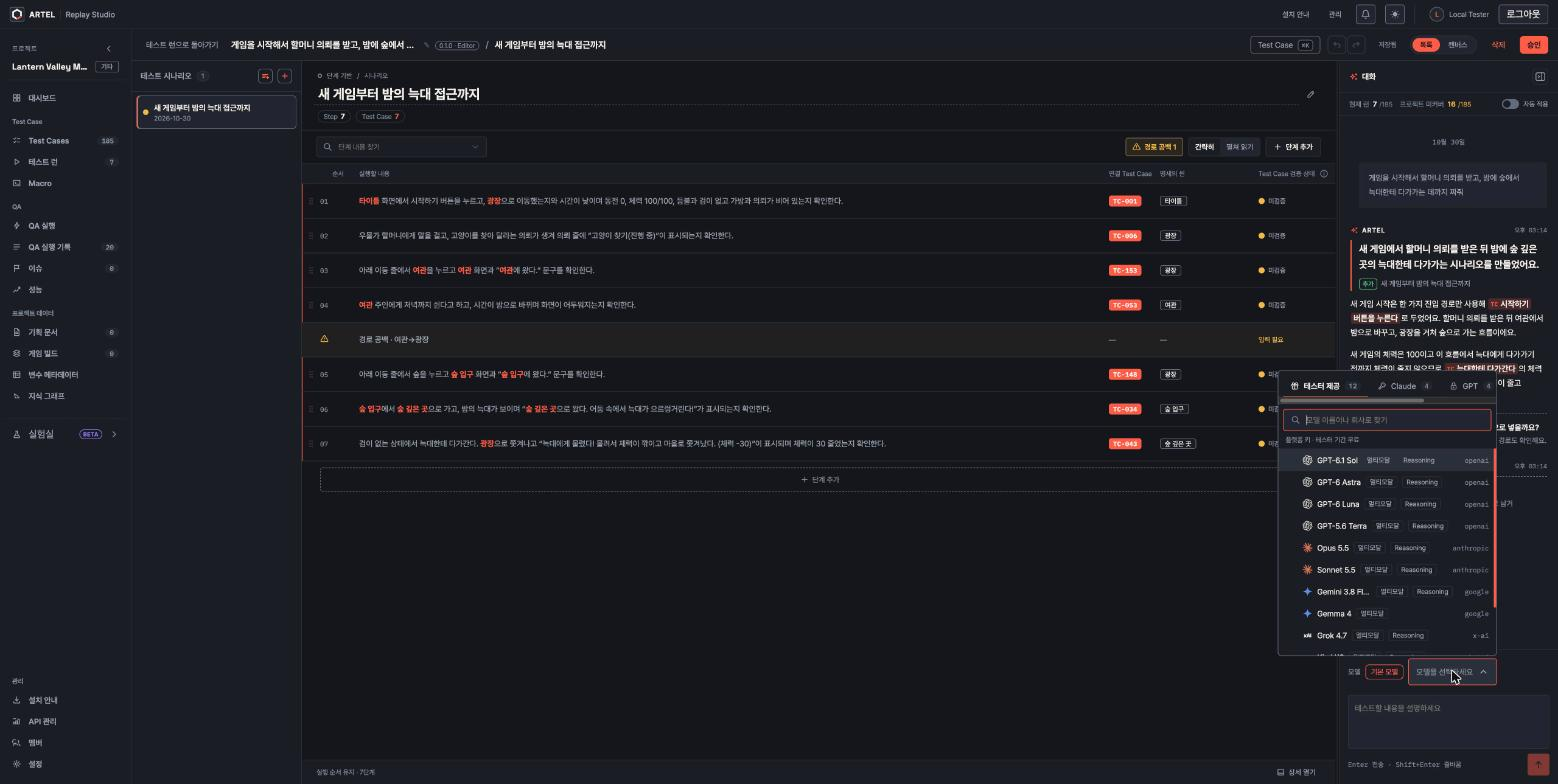
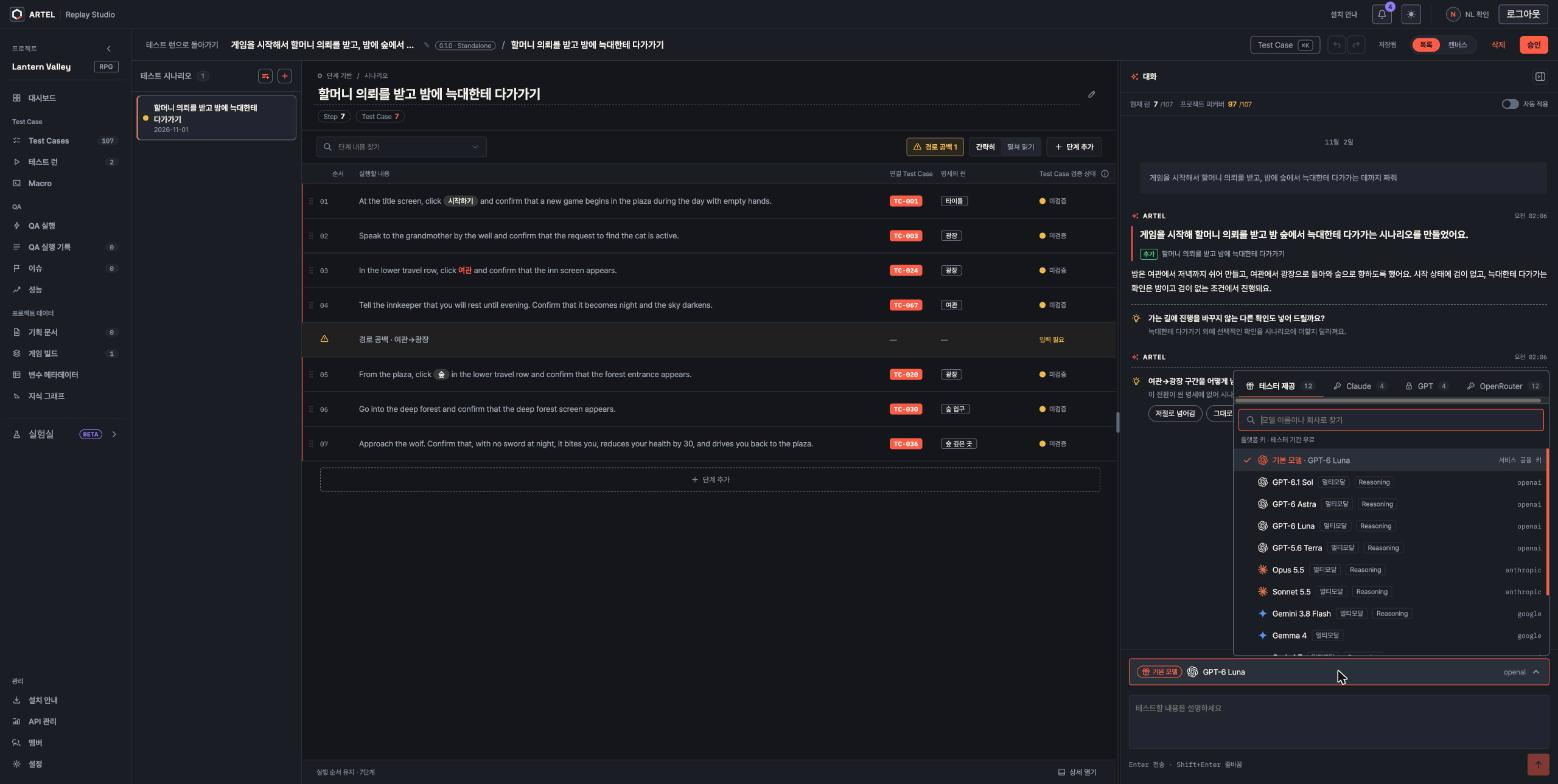
feat(home): 챗봇 모델 줄을 지금 모델을 보이는 트리거 하나로 합친다
모델 줄의 "기본 모델" 버튼과 picker 를 하나로 합친다(ARTEL-1428). 트리거가 지금 모델을 로고 · 이름 ·
키 배지로 보이고, 누르면 목록이 열린다. 기본 모델은 목록 맨 위의 행이고, 고르지 않았을 때 트리거에도
그 모델이 로고와 함께 보인다 — 이름은 orche 의 `GET .../chat/default-model` 로 읽는다. 목록 폭은 520 으로
넓혀 키 탭이 한 줄에 다 들어온다.

`QaModelPicker` 에는 선택적 `defaultOption` 만 더한다. QA 실행은 쓰지 않아 그대로다.

Jira: ARTEL-1428

Claude-Session: https://claude.ai/code/session_01MeYXbLGdqRQs8xs1D23w6h

diff --git a/src/qa/QaModelPicker.tsx b/src/qa/QaModelPicker.tsx
@@ -27,6 +27,15 @@ const PLATFORM_TAB = 'platform'
 
 const PRICE = new Intl.NumberFormat('en-US', { maximumFractionDigits: 2 })
 
+/** {@link QaModelPicker} 의 `defaultOption` 행. 고르면 `onChange('')` 다 — 빈 값이 "기본" 이다. */
+const DEFAULT_KEY = 'default:'
+
+/**
+ * 고르지 않았을 때 쓰는 모델을 목록 맨 위의 한 행으로 둔다(ARTEL-1428, 시나리오 생성 챗봇). `model` 은 그 모델이 목록에
+ * 있을 때의 행 — 로고와 이름을 거기서 읽는다. 없으면(서버가 정하지 못했거나 목록 밖) 이름만 보인다.
+ */
+export type QaModelDefaultOption = { label: string; hint: string; model: QaModel | null }
+
 /**
  * The model a QA run uses, picked from two sections: models offered on the
  * platform key and models on the user's own keys.
@@ -61,7 +70,10 @@ export function QaModelPicker({
   value,
   popoverWidth,
   projectKeySettings,
+  defaultOption,
 }: {
+  /** 주면 첫 탭 맨 위에 "기본" 행이 생기고, `value` 가 빈 값일 때 트리거가 그것을 보인다. */
+  defaultOption?: QaModelDefaultOption
   /**
    * 주면 목록을 트리거 폭이 아니라 이 폭으로, 트리거 오른쪽 끝에 맞춰 화면에 고정해 연다(ARTEL-1084).
    * 좁은 패널 안에서 쓰면 트리거 폭으로는 탭(특히 OpenRouter)과 이름이 잘린다. 패널이 스크롤 영역이라
@@ -124,8 +136,22 @@ export function QaModelPicker({
         : matched,
     [tabbed, tab, matched],
   )
-  const keys = useMemo(() => selectableQaModelKeys(groups), [groups])
+  const firstTab = tabs[0]?.id
+  const defaultMatches =
+    defaultOption !== undefined &&
+    (tabbed
+      ? (shownTab?.id ?? firstTab) === firstTab
+      : `${defaultOption.label} ${defaultOption.model === null ? '' : qaModelDisplayLabel(defaultOption.model)}`
+          .toLowerCase()
+          .includes(query.trim().toLowerCase()))
+  const keys = useMemo(
+    () => [...(defaultMatches ? [DEFAULT_KEY] : []), ...selectableQaModelKeys(groups)],
+    [defaultMatches, groups],
+  )
   const selected = models.find((model) => qaModelOptionKey(model) === value) ?? null
+  const usingDefault = defaultOption !== undefined && value === ''
+  // 목록 안에서 "고른 것" 을 가리키는 열쇠. 빈 값은 기본 행이다.
+  const valueKey = usingDefault ? DEFAULT_KEY : value
   // 검색이 바뀌면 가리키던 행이 목록에서 빠질 수 있다. effect 로 고치면 한 프레임 동안 아무것도
   // 안 가리키므로, 그릴 때 첫 행으로 돌린다.
   const current = keys.includes(active) ? active : (keys[0] ?? '')
@@ -156,7 +182,7 @@ export function QaModelPicker({
         ? PLATFORM_TAB
         : qaKeyServiceOf(selected),
     )
-    setActive(value)
+    setActive(valueKey)
     const rect = triggerRef.current?.getBoundingClientRect()
     const below = rect === undefined ? 0 : window.innerHeight - rect.bottom - 12
     const above = rect === undefined ? 0 : rect.top - 12
@@ -178,7 +204,7 @@ export function QaModelPicker({
   }
 
   function choose(key: string) {
-    onChange(key)
+    onChange(key === DEFAULT_KEY ? '' : key)
     setOpen(false)
     triggerRef.current?.focus()
   }
@@ -220,6 +246,33 @@ export function QaModelPicker({
         <CircleXIcon size={13} />
         {p.keyMissing}
       </span>
+    )
+  }
+
+  /** 기본 모델 행(`defaultOption`). 공용 키로 돌므로 잠기지 않는다. */
+  function defaultRow(entry: QaModelDefaultOption) {
+    return (
+      <li
+        aria-selected={usingDefault}
+        className={
+          'qa-model-option qa-model-option--default'
+          + (current === DEFAULT_KEY ? ' is-active' : '')
+          + (usingDefault ? ' is-selected' : '')
+        }
+        id={optionId(DEFAULT_KEY)}
+        key={DEFAULT_KEY}
+        onClick={() => choose(DEFAULT_KEY)}
+        onMouseEnter={() => setActive(DEFAULT_KEY)}
+        role="option"
+      >
+        <span className="qa-model-option-mark">{usingDefault ? <CheckIcon /> : null}</span>
+        {entry.model === null ? <GiftIcon size={16} /> : <ProviderLogo provider={entry.model.provider} size={16} />}
+        <span className="qa-model-option-label">
+          {entry.label}
+          {entry.model !== null && <span className="qa-model-option-sub"> · {qaModelDisplayLabel(entry.model)}</span>}
+        </span>
+        <span className="qa-model-option-trailing">{entry.hint}</span>
+      </li>
     )
   }
 
@@ -274,7 +327,19 @@ export function QaModelPicker({
         ref={triggerRef}
         type="button"
       >
-        {selected === null ? (
+        {usingDefault ? (
+          <>
+            <span className="qa-model-badge qa-model-badge--platform">
+              <GiftIcon size={14} />
+              {defaultOption.label}
+            </span>
+            {defaultOption.model !== null && <ProviderLogo provider={defaultOption.model.provider} size={18} />}
+            <span className="qa-model-trigger-label">
+              {defaultOption.model === null ? defaultOption.hint : qaModelDisplayLabel(defaultOption.model)}
+            </span>
+            {defaultOption.model !== null && <span className="qa-model-trigger-provider">{defaultOption.model.provider}</span>}
+          </>
+        ) : selected === null ? (
           <span className="qa-model-trigger-placeholder">{p.modelPlaceholder}</span>
         ) : (
           <>
@@ -366,6 +431,7 @@ export function QaModelPicker({
             </p>
           )}
           <ul aria-label={p.modelLabel} className="qa-model-list" id={listId} ref={setListNode} role="listbox">
+            {defaultMatches && defaultOption !== undefined && defaultRow(defaultOption)}
             {groups.platform.length > 0 && (
               <li className="qa-model-group" role="presentation">
                 <div className="qa-model-section" hidden={tabbed}>
@@ -411,7 +477,7 @@ export function QaModelPicker({
               </li>
             )}
 
-            {groups.platform.length === 0 && groups.user.length === 0 && (
+            {groups.platform.length === 0 && groups.user.length === 0 && !defaultMatches && (
               <li className="qa-model-empty" role="presentation">
                 {tabbed && shownTab !== undefined && shownTab.id !== PLATFORM_TAB
                   ? p.keyTabEmpty(llmKeyServiceName(shownTab.id))

diff --git a/src/testRuns/RunChat.tsx b/src/testRuns/RunChat.tsx
@@ -697,26 +697,17 @@ export function RunChat({
             </div>
           )}
 
-          {/* 모델 고르기(ARTEL-1428). QA 실행과 같은 picker · 목록이고, 고르지 않으면 서버의 기본 모델이다.
-              고른 모델은 사용자 · 프로젝트 키로 돈다. Project agent 의 모델 줄과 같은 모양이다. */}
+          {/* 모델(ARTEL-1428). 지금 쓰는 모델을 로고와 함께 보이고, 누르면 QA 실행과 같은 목록이 열린다. 목록 맨 위가
+              "기본 모델"(서버가 정하는 저작 모델 · 공용 키)이고, 다른 모델은 사용자 · 프로젝트 키로 돈다. */}
           <div className="run-chat-model">
-            <label className="run-chat-model-label" htmlFor={modelPickerId}>{c.model.label}</label>
-            <button
-              aria-pressed={session.modelKey === ''}
-              className={'run-chat-model-default' + (session.modelKey === '' ? ' is-selected' : '')}
-              disabled={session.sending}
-              onClick={() => session.setModelKey('')}
-              title={c.model.defaultHelp}
-              type="button"
-            >
-              {c.model.default}
-            </button>
+            <label className="visually-hidden" htmlFor={modelPickerId}>{c.model.label}</label>
             <QaModelPicker
-              disabled={session.sending || session.models.length === 0}
+              defaultOption={{ label: c.model.default, hint: c.model.defaultHint, model: session.defaultModel }}
+              disabled={session.sending}
               id={modelPickerId}
               models={session.models}
               onChange={session.setModelKey}
-              popoverWidth={360}
+              popoverWidth={520}
               projectKeySettings={sectionHref(session.projectId, 'api')}
               value={session.modelKey}
             />

diff --git a/src/testRuns/useRunChatSession.ts b/src/testRuns/useRunChatSession.ts
@@ -11,6 +11,7 @@ import {
   cancelRunChat,
   closeRunChat,
   discardRunChatDraft,
+  getRunChatDefaultModel,
   getRunChatDraft,
   listRunChatMessages,
   parseRunStreamEvent,
@@ -178,6 +179,20 @@ export function useRunChatSession(
     },
     [projectId],
   )
+  // 고르지 않았을 때 쓰는 모델. "기본 모델" 을 로고와 이름으로 보이는 데만 쓴다 — 보내는 값은 늘 빈 값이다.
+  const [defaultModelId, setDefaultModelId] = useState<{ runId: string; model: string | null } | null>(null)
+  useEffect(() => {
+    if (runId === null) return undefined
+    const controller = new AbortController()
+    getRunChatDefaultModel(projectId, runId, controller.signal)
+      .then((model) => setDefaultModelId({ runId, model }))
+      .catch(() => undefined)
+    return () => controller.abort()
+  }, [projectId, runId])
+  const defaultModel =
+    defaultModelId === null || defaultModelId.runId !== runId || defaultModelId.model === null
+      ? null
+      : (models.find((model) => model.keySource === 'platform' && model.id === defaultModelId.model) ?? null)
   // 기억해 둔 모델이 목록에서 사라졌으면(키를 지웠거나 관리자가 껐다) 기본 모델로 돈다.
   const chosenModel = models.find((model) => qaModelOptionKey(model) === modelKey) ?? null
 
@@ -656,6 +671,7 @@ export function useRunChatSession(
     applyFailure,
     autoApply,
     models,
+    defaultModel,
     modelKey: chosenModel === null ? '' : modelKey,
     setModelKey,
     cancelling,

diff --git a/src/testRuns/chatRail.css b/src/testRuns/chatRail.css
@@ -9,12 +9,6 @@
 /* 접힌 동안 폭 손잡이는 쓸 일이 없다. 칸은 그대로 두어 격자가 밀리지 않게 한다. */
 .scenario-studio.is-chat-collapsed .st-split { visibility: hidden; pointer-events: none; }
 
-/* 모델 고르기 줄(ARTEL-1428). Project agent 의 `.agent-model-bar` 와 같은 모양을 저작 대화의 색으로 둔다. */
-.scenario-studio .run-chat-model { display: flex; flex-wrap: wrap; align-items: center; gap: 8px; margin-bottom: 8px; }
-.scenario-studio .run-chat-model-label { font-size: 12px; color: var(--st-muted); }
-.scenario-studio .run-chat-model-default {
-  font: inherit; font-size: 12px; padding: 4px 8px; border-radius: 6px; cursor: pointer;
-  background: var(--st-surface); color: var(--st-text); border: 1px solid var(--st-border);
-}
-.scenario-studio .run-chat-model-default.is-selected { border-color: var(--st-action); color: var(--st-action); }
-.scenario-studio .run-chat-model-default:disabled { opacity: .6; cursor: default; }
+/* 모델 줄(ARTEL-1428). 지금 모델을 보이는 트리거 하나가 줄을 다 쓴다 — 목록은 트리거를 누르면 열린다. */
+.scenario-studio .run-chat-model { margin-bottom: 8px; }
+.scenario-studio .run-chat-model .qa-model-picker { width: 100%; }

diff --git a/src/i18n/messages/scenarios.ts b/src/i18n/messages/scenarios.ts
@@ -164,7 +164,7 @@ export const scenariosEn = {
     model: {
       label: 'Model',
       default: 'Default model',
-      defaultHelp: 'The model the service runs authoring on, billed to the platform key.',
+      defaultHint: 'Platform key',
       keyMissing: 'There is no API key for the model you picked. Add a key, or pick the default model.',
     },
     awaitingReply: 'Waiting for Artel to reply.',
@@ -1080,7 +1080,7 @@ export const scenariosKo: Localized<typeof scenariosEn> = {
     model: {
       label: '모델',
       default: '기본 모델',
-      defaultHelp: '서비스가 정한 저작 모델입니다. 비용은 서비스의 공용 키로 나갑니다.',
+      defaultHint: '서비스 공용 키',
       keyMissing: '고른 모델의 API 키가 없습니다. 키를 등록하거나 기본 모델을 고르세요.',
     },
     awaitingReply: 'Artel의 응답을 기다리고 있습니다.',

diff --git a/src/testRuns/runChatApi.ts b/src/testRuns/runChatApi.ts
@@ -401,6 +401,15 @@ export type RunChatAnswer = {
   displayText?: string
 }
 
+/** 고르지 않았을 때 저작이 쓰는 모델의 id(ARTEL-1428). 서버가 정하지 못하면 null 이다. */
+export async function getRunChatDefaultModel(projectId: string, runId: string, signal?: AbortSignal): Promise<string | null> {
+  const response = await apiFetch(chatPath(projectId, runId, '/default-model'), { signal })
+  if (!response.ok) throw await toApiError(response)
+  const body: unknown = await response.json()
+  const model = typeof body === 'object' && body !== null ? (body as { model?: unknown }).model : null
+  return typeof model === 'string' && model.length > 0 ? model : null
+}
+
 /** 챗봇에서 고른 모델(ARTEL-1428). `/api/qa-models` 의 `id` · `keySource` 그대로다. */
 export type RunChatModelChoice = { model: string; keySource: string }
 

diff --git a/src/App.css b/src/App.css
@@ -3459,6 +3459,8 @@ a.instance-name:hover {
   text-overflow: ellipsis;
   white-space: nowrap;
 }
+/* 기본 모델 행의 모델 이름(ARTEL-1428). "기본 모델" 이 행의 이름이고 모델은 덧붙인 설명이다. */
+.qa-model-option-sub { color: var(--color-text-secondary); font-weight: 400; }
 
 .qa-model-tag {
   flex: none;
